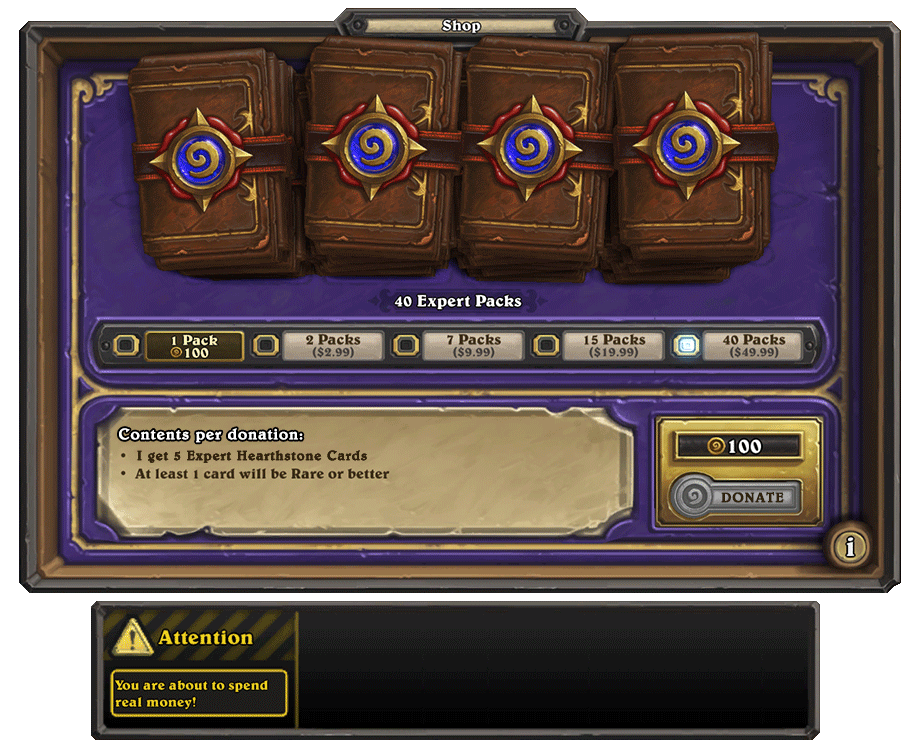
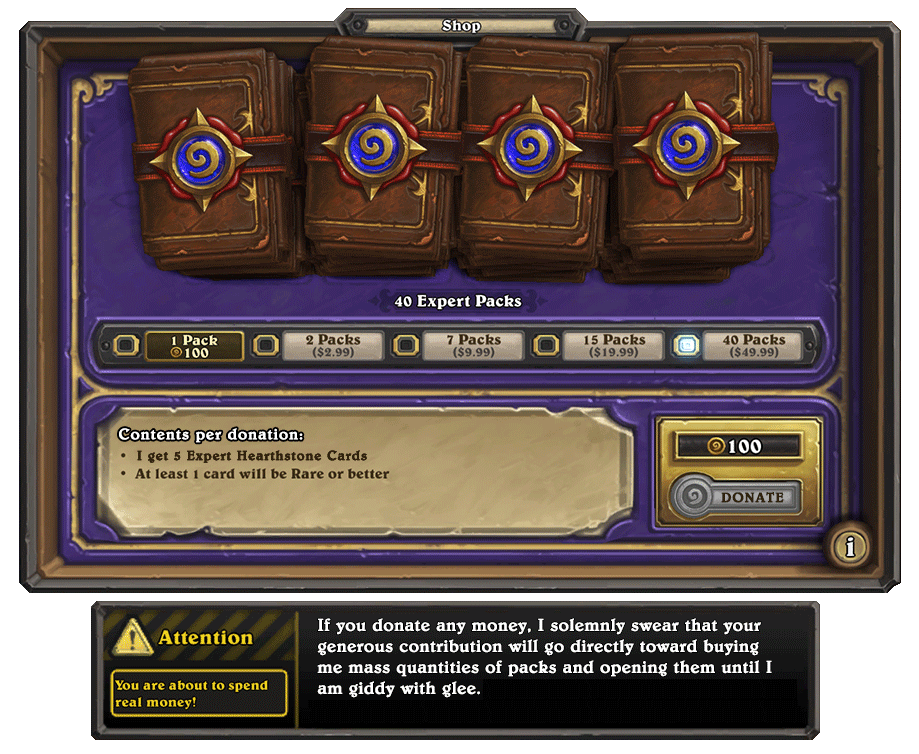
fixed some bugs, updated donation page

Changed region(s): [[0.3351, 0.8236, 0.8531, 0.9456]]

diff --git a/gvg.html b/gvg.html
@@ -182,7 +182,12 @@
 
 			<!-- Shop/donation menu -->
 			<div id="shop_button"></div>
-			<!-- <a href="#" target="_blank"> --> <div id="donation" style="display: none;"></div> <!-- </a> -->
+			<!-- <a href="#" target="_blank"> --> 
+
+
+				<a href="https://www.paypal.com/cgi-bin/webscr?cmd=_xclick&business=defiantjustice%40gmail%2ecom&lc=US&item_name=Donation&button_subtype=services&no_note=0&currency_code=USD&bn=PP%2dBuyNowBF%3abtn_buynowCC_LG%2egif%3aNonHostedGuest"><div id="donation" style="display: none;"></div></a>
+
+			 <!-- </a> -->
 
 			<!-- Volume control -->
 			<section>

diff --git a/classic.html b/classic.html
@@ -183,7 +183,7 @@
 
 			<!-- Shop/donation menu -->
 			<div id="shop_button"></div>
-			<!-- <a href="#" target="_blank"> --> <div id="donation" style="display: none;"></div> <!-- </a> -->
+				<a href="https://www.paypal.com/cgi-bin/webscr?cmd=_xclick&business=defiantjustice%40gmail%2ecom&lc=US&item_name=Donation&button_subtype=services&no_note=0&currency_code=USD&bn=PP%2dBuyNowBF%3abtn_buynowCC_LG%2egif%3aNonHostedGuest" target="_blank"><div id="donation" style="display: none;"></div></a>
 
 			<!-- Volume control -->
 			<section>
